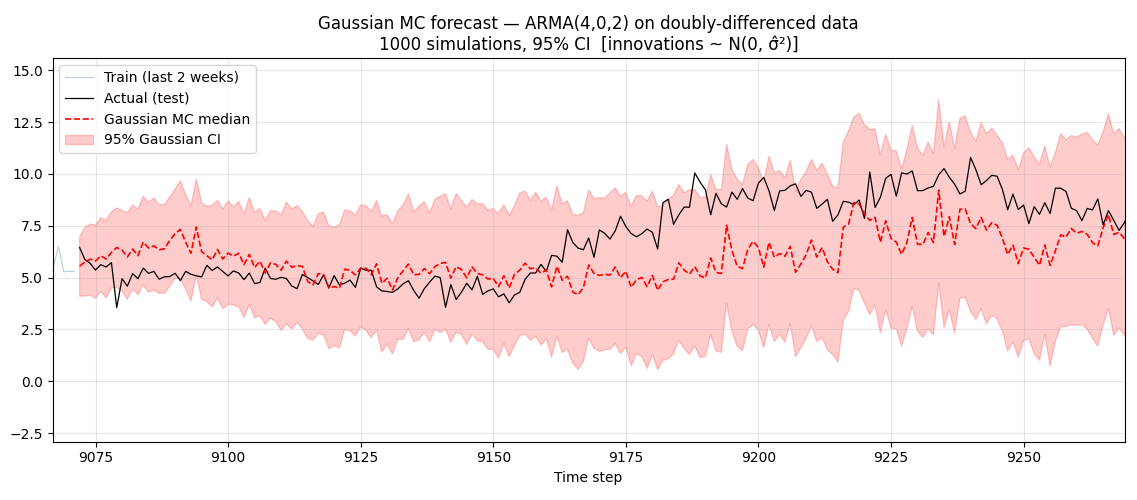
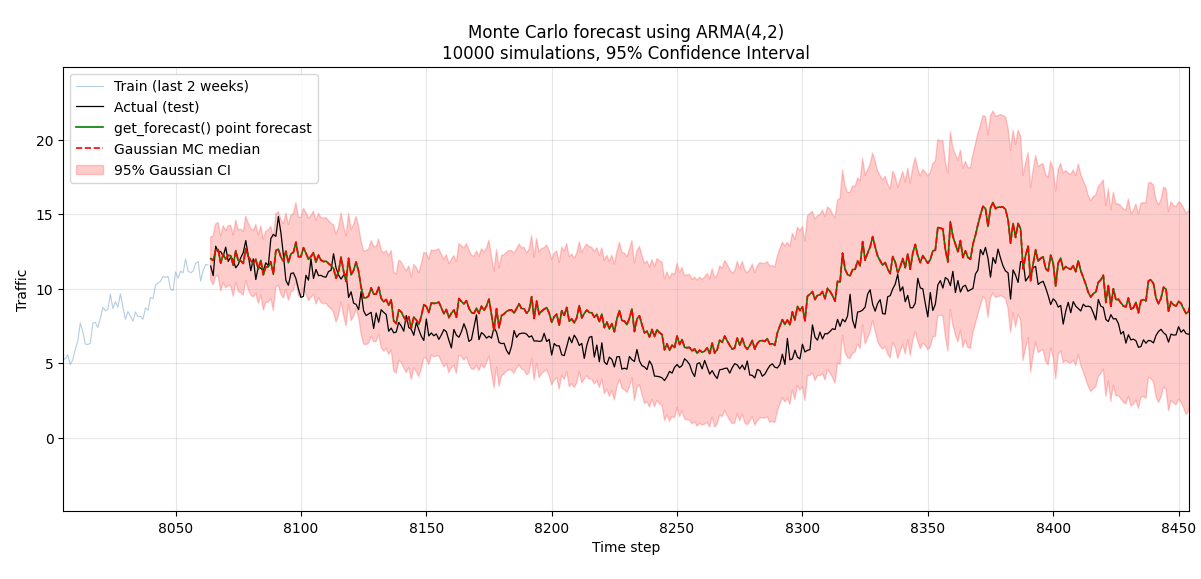
tweaks to mc gauss

diff --git a/part_a/Anton/residual_check_claude.py b/part_a/Anton/residual_check_claude.py
@@ -124,19 +124,16 @@ def plot_acf_squared(u_hat: np.ndarray) -> None:
     plt.show()
 
 
-def plot_gaussianity(u_hat: np.ndarray) -> None:
+def plot_histogram(u_hat: np.ndarray) -> None:
     """
-    Check 4: Histogram and Q-Q plot.
+    Check 4a: Histogram of standardised innovations.
 
     The Gaussian assumption underlies the analytical confidence intervals
     (the 1.96 * sigma_h formula from Theorem 4.15). If the residuals are
     heavy-tailed or skewed, the bootstrap resampling approach is preferable
     over assuming N(0, sigma^2) for the Monte Carlo draws.
     """
-    fig, axes = plt.subplots(1, 2, figsize=(13, 4))
-
-    # Histogram with fitted Gaussian overlay
-    ax = axes[0]
+    fig, ax = plt.subplots(figsize=(7, 4))
     u_std = (u_hat - u_hat.mean()) / u_hat.std()
     ax.hist(u_std, bins=60, density=True, color="steelblue",
             alpha=0.6, label="Standardised $\\hat{U}_t$")
@@ -148,20 +145,28 @@ def plot_gaussianity(u_hat: np.ndarray) -> None:
     ax.set_ylabel("Density")
     ax.legend()
     ax.grid(True, alpha=0.3)
+    plt.tight_layout()
+    plt.show()
 
-    # Q-Q plot
-    ax = axes[1]
+
+def plot_qq(u_hat: np.ndarray) -> None:
+    """
+    Check 4b: Q-Q plot.
+
+    Points should fall on the reference line if innovations are Gaussian.
+    Deviations in the tails indicate heavy tails or skewness, favouring
+    bootstrap over Gaussian Monte Carlo draws.
+    """
+    fig, ax = plt.subplots(figsize=(7, 4))
     (osm, osr), (slope, intercept, r) = stats.probplot(u_hat, dist="norm")
     ax.scatter(osm, osr, color="steelblue", s=4, alpha=0.5, label="Innovations")
     ax.plot(osm, slope * np.array(osm) + intercept,
             color="red", linewidth=2, label="Normal reference line")
-    ax.set_title("Check 4b — Q-Q plot\n"
-                 "Expected: points on the line if Gaussian; tails reveal heavy tails")
+    ax.set_title("Residual Q-Q plot on training data")
     ax.set_xlabel("Theoretical quantiles")
     ax.set_ylabel("Sample quantiles")
     ax.legend()
     ax.grid(True, alpha=0.3)
-
     plt.tight_layout()
     plt.show()
 
@@ -227,7 +232,8 @@ def main():
     plot_time_series(u_hat)
     plot_acf_levels(u_hat)
     plot_acf_squared(u_hat)
-    plot_gaussianity(u_hat)
+    plot_histogram(u_hat)
+    plot_qq(u_hat)
     run_ljung_box(u_hat)
 
     print("\nInterpretation guide:")

diff --git a/part_a/Anton/MC_gaussian.py b/part_a/Anton/MC_gaussian.py
@@ -100,6 +100,7 @@ def plot_results(
     test_raw: np.ndarray,
     paths: np.ndarray,
     alpha: float,
+    point_forecast: np.ndarray,
 ) -> tuple:
     lower  = np.percentile(paths, 100 * alpha / 2,       axis=0)
     upper  = np.percentile(paths, 100 * (1 - alpha / 2), axis=0)
@@ -114,6 +115,8 @@ def plot_results(
             color="steelblue", alpha=0.4, linewidth=0.8, label="Train (last 2 weeks)")
     ax.plot(test_idx, test_raw,
             color="black", linewidth=0.9, label="Actual (test)")
+    ax.plot(test_idx, point_forecast,
+            color="green", linewidth=1.2, label="get_forecast() point forecast")
     ax.plot(test_idx, median,
             color="red", linestyle="--", linewidth=1.2, label="Gaussian MC median")
     ax.fill_between(test_idx, lower, upper,
@@ -158,11 +161,18 @@ def main():
     print(f"  MA params : {results.maparams}")
     print(f"  σ̂         : {resid.std():.4f}  (used as Gaussian std)")
 
+    # Point forecast from model: get_forecast gives W_{T+1}..W_{T+steps},
+    # reconstruct to original domain the same way as the MC paths
+    T             = len(train_raw)
+    seasonal_base = train_raw[T - TIME_STEPS_PER_WEEK : T - TIME_STEPS_PER_WEEK + steps]
+    W_forecast    = results.get_forecast(steps=steps).predicted_mean
+    point_forecast = seasonal_diff[-1] + np.cumsum(W_forecast) + seasonal_base
+
     print(f"\nRunning {N_SIMS} Gaussian MC simulations ({steps} steps ahead)...")
     rng   = np.random.default_rng(SEED)
     paths = gaussian_forecast(results, seasonal_diff, train_raw, steps, N_SIMS, rng)
 
-    lower, upper, median = plot_results(train_raw, test_raw, paths, ALPHA)
+    lower, upper, median = plot_results(train_raw, test_raw, paths, ALPHA, point_forecast)
     print_coverage(test_raw, lower, upper, ALPHA)
 
 
